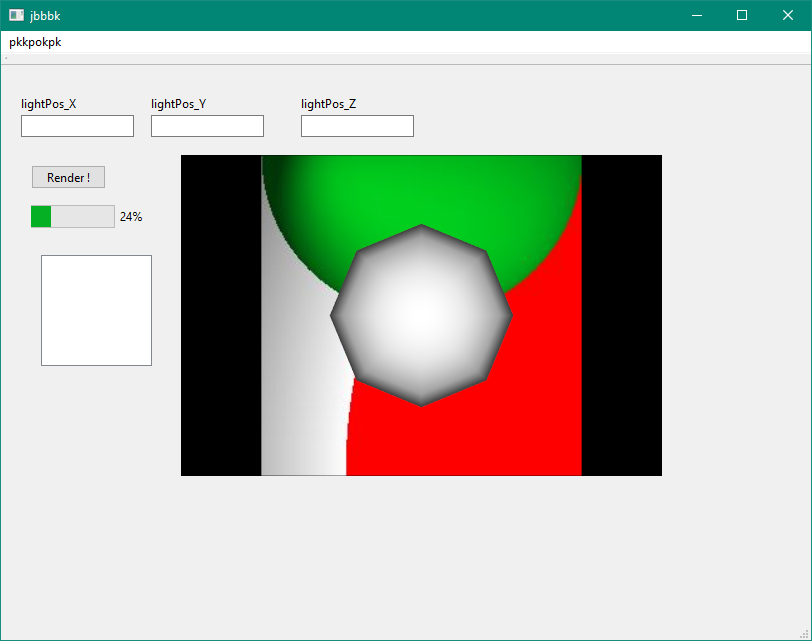
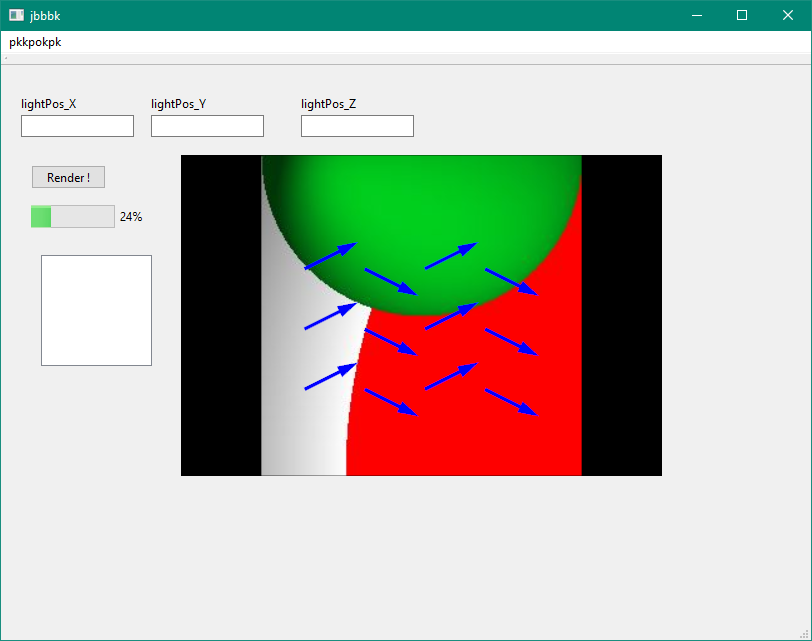
first draft preparing for vectorfield overlay by adding arrow glyphs

diff --git a/QtWidget_VtkSandbox.cpp b/QtWidget_VtkSandbox.cpp
@@ -5,6 +5,7 @@
 #include <QImage>
 
 #include <vtkSphereSource.h>
+#include <vtkArrowSource.h>
 #include <vtkActor.h>
 #include <vtkImageActor.h>
 #include <vtkPolyDataMapper.h>
@@ -12,6 +13,12 @@
 #include <vtkImageCanvasSource2D.h>
 #include <vtkImageData.h>
 #include <vtkCamera.h>
+#include <vtkPointData.h>
+#include <vtkGlyph2D.h>
+#include <vtkImageSliceMapper.h>
+#include <vtkImageSlice.h>
+#include <vtkNamedColors.h>
+#include <vtkProperty.h>
 
 #include "TDD_Raytracer.h"
 
@@ -61,6 +68,8 @@ void QtWidget_VtkSandbox::onLightPosXChanged()
 
 void QtWidget_VtkSandbox::onRenderButtonClicked()
 {
+    // sphere
+    /////////////////////
     vtkSmartPointer<vtkSphereSource> sphereSource{ vtkSmartPointer<vtkSphereSource>::New() };
     sphereSource->SetRadius(2);
     sphereSource->Update();
@@ -68,8 +77,12 @@ void QtWidget_VtkSandbox::onRenderButtonClicked()
     sphereMapper->SetInputData(sphereSource->GetOutput());
     vtkSmartPointer<vtkActor> sphere{ vtkSmartPointer<vtkActor>::New() };
     sphere->SetMapper(sphereMapper);
+    /////////////////////
+
+    
 
     // setting up the background actor
+    /////////////////////
     vtkSmartPointer<vtkJPEGReader> jpegReader{ vtkSmartPointer<vtkJPEGReader>::New() };
     const auto fN{ "C:\\Users\\strai\\source\\TDD_raytracer\\TDD_Raytracer\\X_512Y_256Z_-64.jpg" };
     jpegReader->CanReadFile(fN);
@@ -81,10 +94,102 @@ void QtWidget_VtkSandbox::onRenderButtonClicked()
     bg_Image->SetInputData(imageData);
     m_Renderer_bG->AddViewProp(bg_Image);
     m_Renderer_bG->ResetCamera();
+    /////////////////////
+
+    // arrow / arrow field
+    /////////////////////
+    vtkSmartPointer<vtkArrowSource> arrowSource{ vtkSmartPointer<vtkArrowSource>::New() };
+    arrowSource->Update();
+    /*vtkSmartPointer<vtkPolyDataMapper> arrowMapper{ vtkSmartPointer<vtkPolyDataMapper>::New() };
+    arrowMapper->SetInputData(arrowSource->GetOutput());
+    vtkSmartPointer<vtkActor> arrow{ vtkSmartPointer<vtkActor>::New() };
+    arrow->SetMapper(arrowMapper);*/
+
+    vtkSmartPointer<vtkImageData> imageDataVectorField{ vtkSmartPointer<vtkImageData>::New() };
+    //imageDataVectorField->SetDimensions(imageData->GetDimensions());
+    //imageDataVectorField->SetDimensions(481,321,1);
+    // the aspect ratio of the openGWindow
+    auto const aspectRatio{ 418.0 / 321.0 };
+    //todo: what do these vecFieldDimensions actually mean wrt the background image
+    //->arrows get smaller when vecFieldDims increase
+    const double vectFieldDim_X{ 40.0 }; 
+    imageDataVectorField->SetDimensions(vectFieldDim_X, vectFieldDim_X / aspectRatio, 1);
+    imageDataVectorField->AllocateScalars(VTK_FLOAT, 3);
+
+    int* dims = imageDataVectorField->GetDimensions();
+    // Zero the image
+    bool flip{ true };
+    for (auto z = 0; z < dims[2]; ++z)
+    {
+        for (auto y = 0; y < dims[1]; ++y)
+        {
+            for (auto x = 0; x < dims[0]; ++x)
+            {
+                //todo: instead of doing this manually, filter the (dense) vectorfield lateron
+                if ((x % 10 == 0) && (y % 10 == 0))
+                {
+                    auto pixel = static_cast<float*>(imageDataVectorField->GetScalarPointer(x, y, z));
+                    pixel[0] = 10;
+                    pixel[1] = flip == true ? 5 : - 5;
+                    pixel[2] = 0.0;
+                    flip = !flip;
+                }
+                else
+                {
+                    auto pixel = static_cast<float*>(imageDataVectorField->GetScalarPointer(x, y, z));
+                    pixel[0] = 0.0;
+                    pixel[1] = 0.0;
+                    pixel[2] = 0.0;
+                }
+            }
+        }
+    }
+
+   /* {
+        auto pixel = static_cast<float*>(imageDataVectorField->GetScalarPointer(20, 20, 0));
+        pixel[0] = 10;
+        pixel[1] = 5;
+    }
+    {
+        auto pixel = static_cast<float*>(imageDataVectorField->GetScalarPointer(40, 40, 0));
+        pixel[0] = -10;
+        pixel[1] = 5;
+    }*/
+
+    //todo: what does this do?
+    imageDataVectorField->GetPointData()->SetActiveVectors(imageDataVectorField->GetPointData()->GetScalars()->GetName()); 
+    vtkSmartPointer<vtkGlyph2D> glyphFilter{ vtkSmartPointer<vtkGlyph2D>::New() };
+    glyphFilter->SetSourceConnection(arrowSource->GetOutputPort());
+    glyphFilter->OrientOn();
+    glyphFilter->SetVectorModeToUseVector();
+    glyphFilter->SetInputData(imageDataVectorField);
+    glyphFilter->Update();
+
+    vtkSmartPointer<vtkImageSliceMapper> imageMapper{ vtkSmartPointer<vtkImageSliceMapper>::New() };
+    imageMapper->SetInputData(imageDataVectorField);
+
+    vtkSmartPointer<vtkImageSlice> imageSlice{ vtkSmartPointer<vtkImageSlice>::New() };
+    imageSlice->SetMapper(imageMapper);
+
+    vtkSmartPointer<vtkPolyDataMapper> vectorMapper{ vtkSmartPointer<vtkPolyDataMapper>::New() };
+    vectorMapper->SetInputConnection(glyphFilter->GetOutputPort());
+
+    vtkSmartPointer<vtkActor> vectorActor{ vtkSmartPointer<vtkActor>::New() };
+    vtkNew<vtkNamedColors> colors;
+   
+    vectorActor->SetMapper(vectorMapper);
+    //todo: why is it not possible to color the glyphs?
+    vectorActor->GetProperty()->SetDiffuseColor(
+        colors->GetColor3d("LimeGreen").GetData());
+    /////////////////////
 
     // setting up the "rest" of the scene
 
-    m_Renderer_fG->AddViewProp(sphere);
+    //m_Renderer_fG->AddViewProp(arrow);
+    // todo: what is the image slice used for? it creates a black background when being added to the renderer!
+    // could the imageSlice be used to hold the actual "backgroundimage"?
+    //m_Renderer_fG->AddViewProp(imageSlice);
+    m_Renderer_fG->AddViewProp(vectorActor);
     m_Renderer_fG->ResetCamera();
     m_RenderWindow->Render();
 
